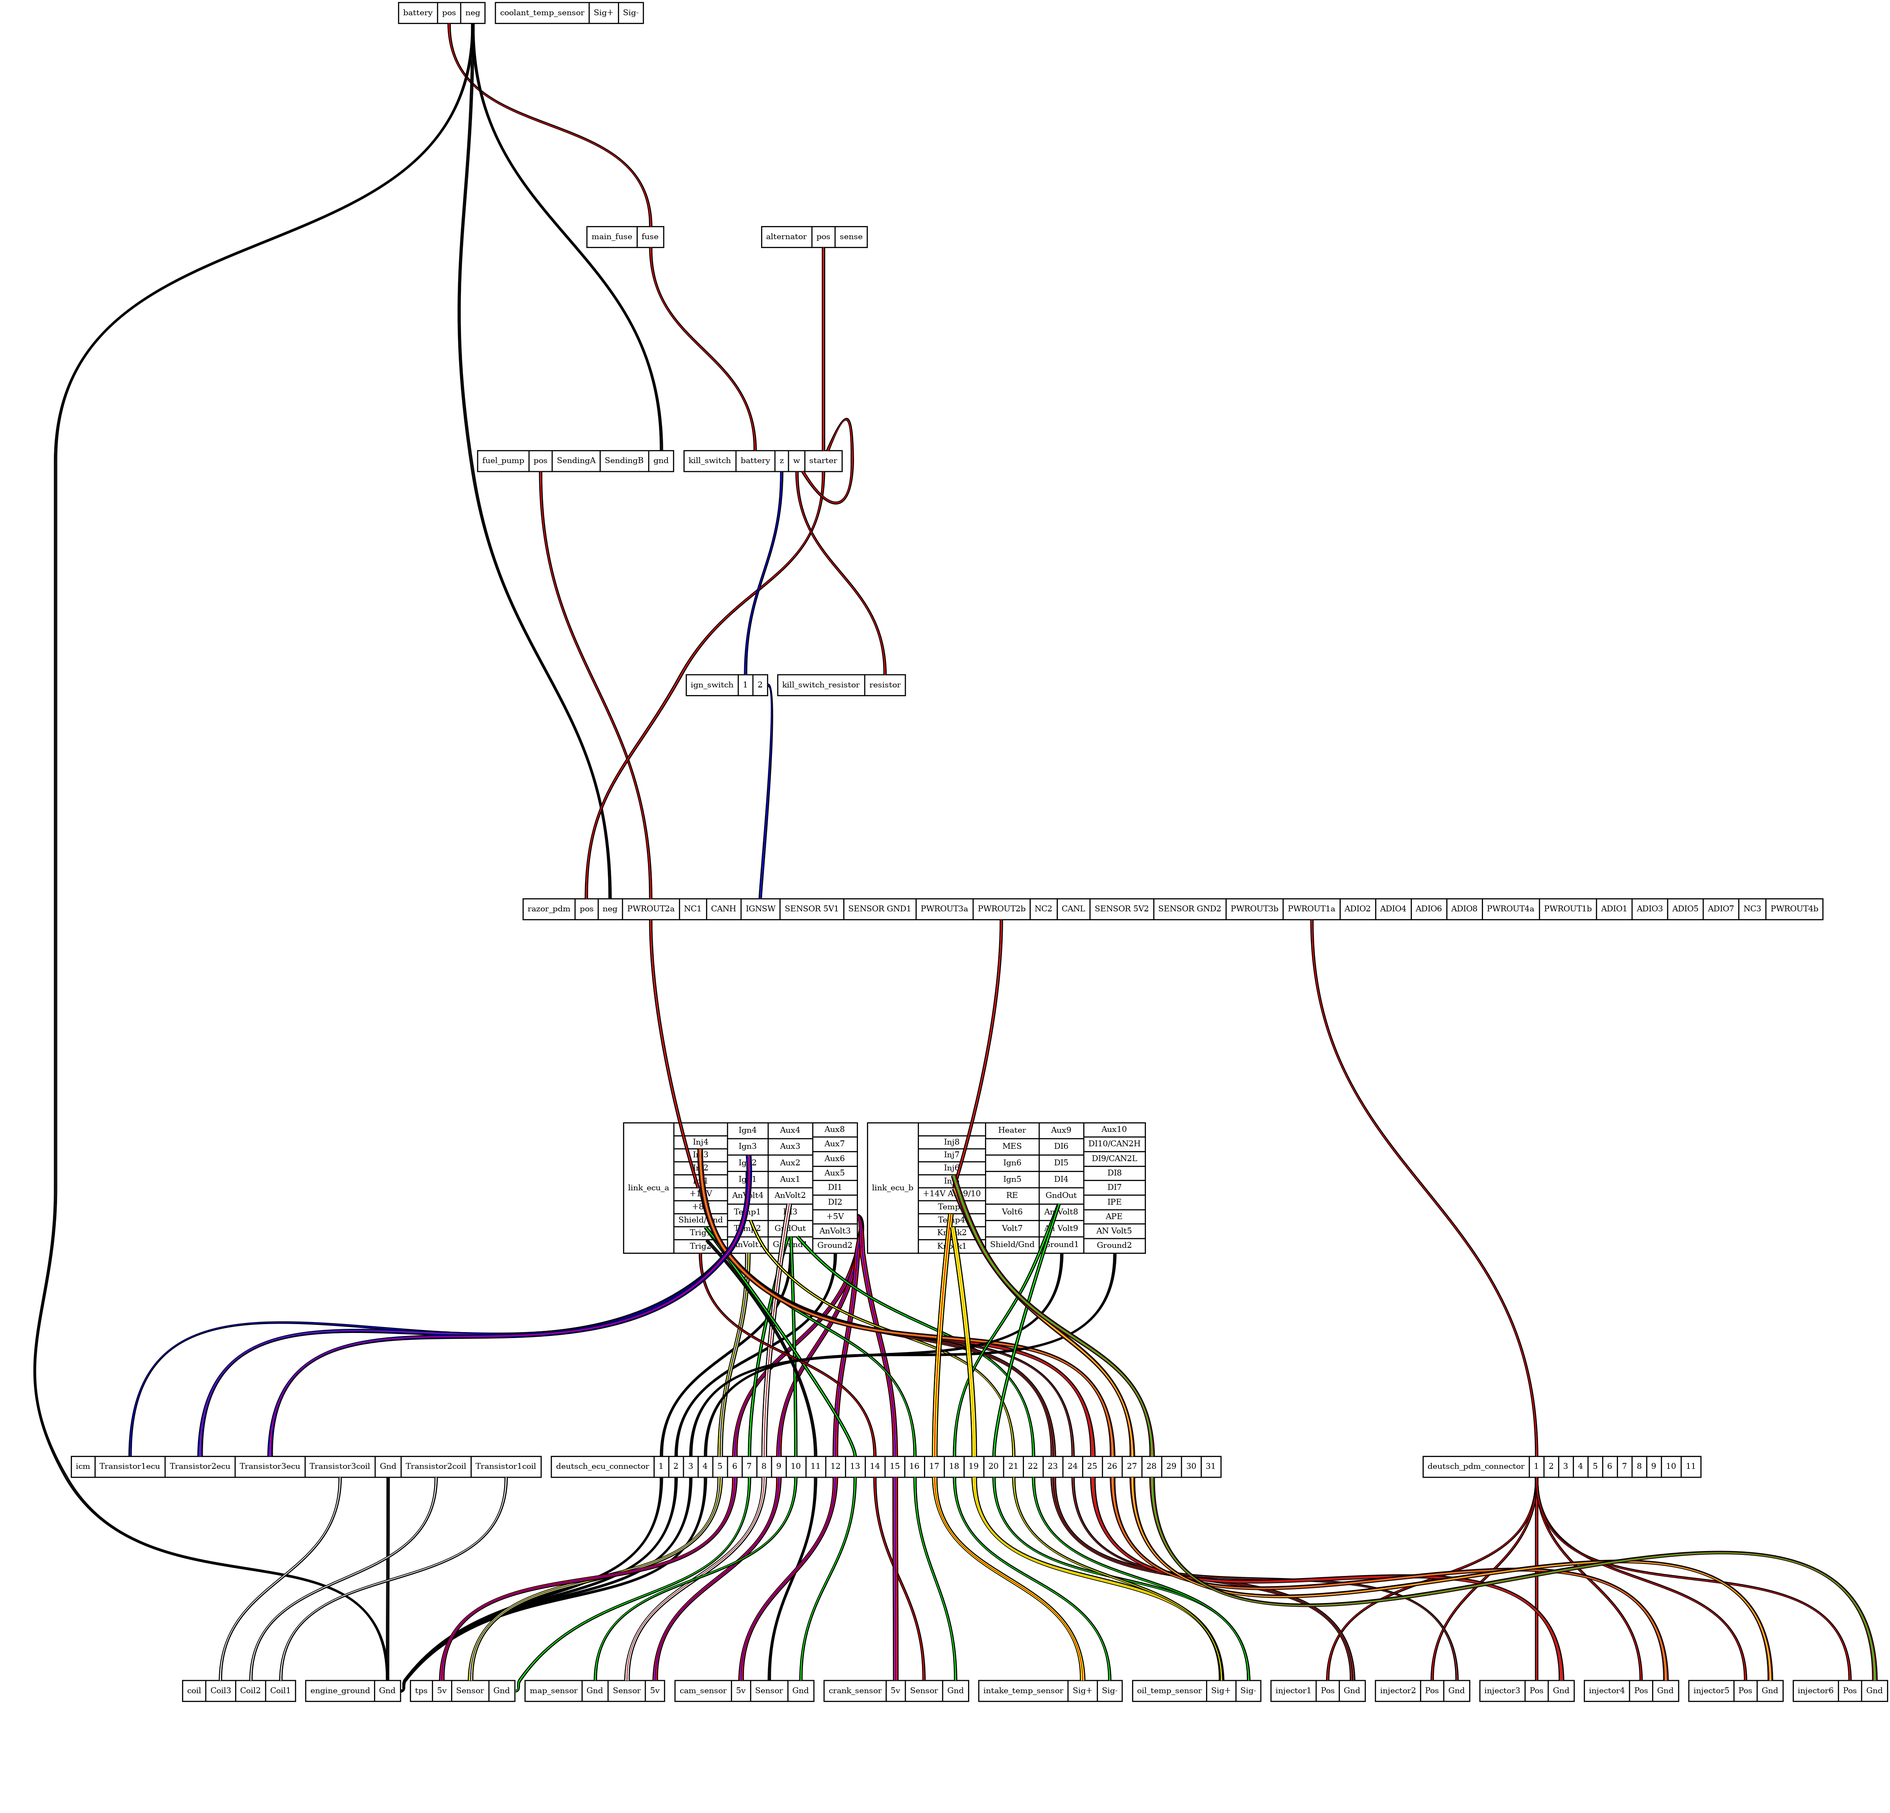
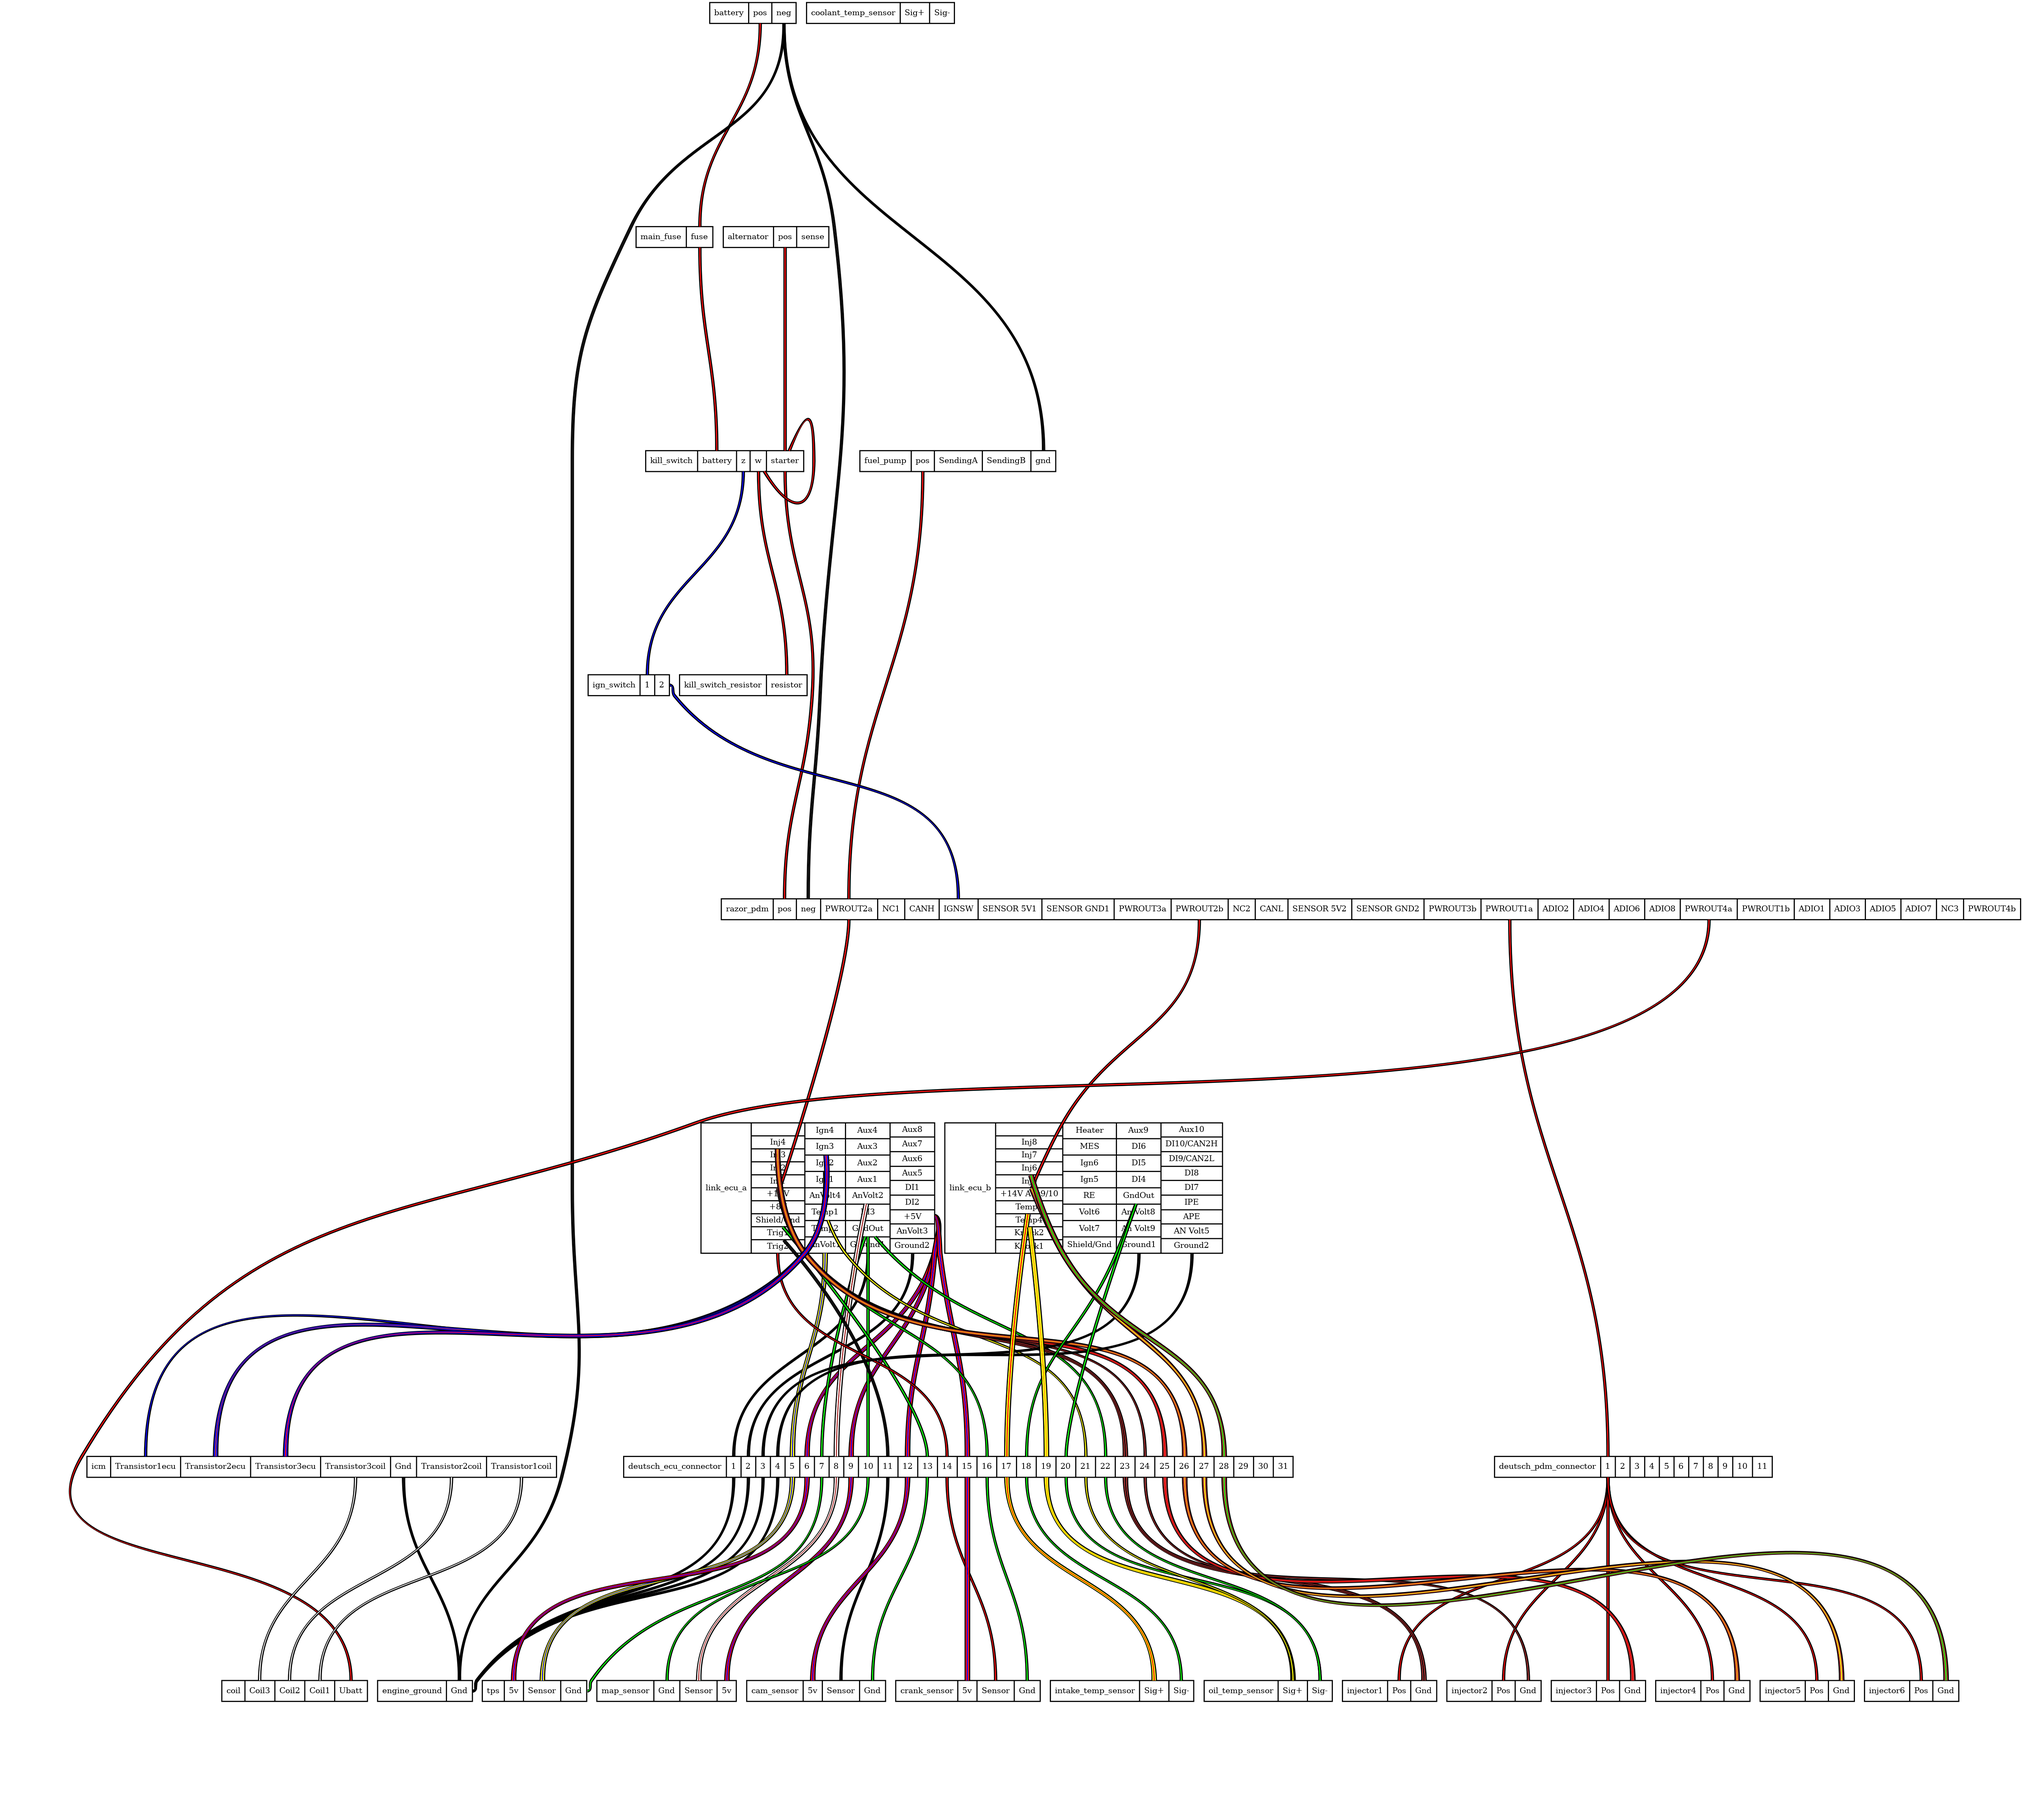
Add coil power wire

diff --git a/corrado_wiring.py b/corrado_wiring.py
@@ -180,7 +180,7 @@ for i in range(1, 7):
 
 Node('icm', ['Transistor1ecu', 'Transistor2ecu', 'Transistor3ecu',
              'Transistor3coil', 'Gnd', 'Transistor2coil', 'Transistor1coil'])
-Node('coil', ['Coil3', 'Coil2', 'Coil1'])
+Node('coil', ['Coil3', 'Coil2', 'Coil1', 'Ubatt'])
 
 AddPath((
   ('battery', 'pos'),
@@ -383,6 +383,10 @@ for i in range(1, 7):
   ))
 
 # Coils
+AddPath((
+  ('razor_pdm', 'PWROUT4a'),
+  ('coil', 'Ubatt'),
+), 'red')
 AddPath((
   ('icm', 'Gnd'),
   ('engine_ground', 'Gnd'),
